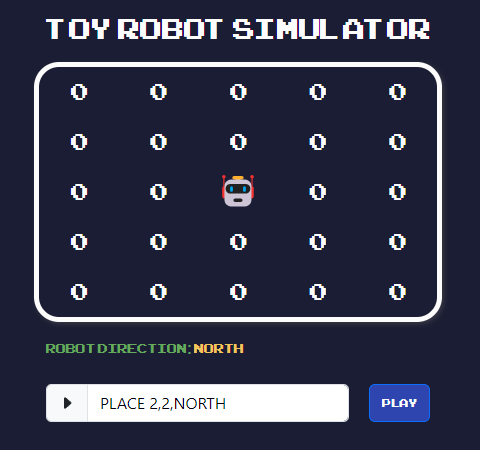
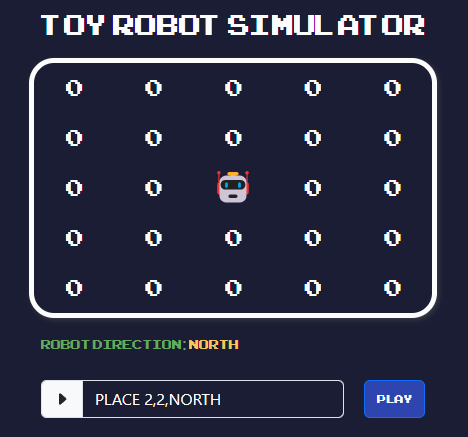
style update, new graphics added 2

diff --git a/src/app/game/game.component.scss b/src/app/game/game.component.scss
@@ -60,10 +60,15 @@
 }
 
 .form-control {
-    color: #00000d;
+    color: #fcfcfc;
+    background-color: #1b1d34;
+}
+.form-control::placeholder { 
+    color: #cdbbab51;
+    opacity: 6; 
 }
 .form-control:focus {
-    border-color: #f6c65e;
-    box-shadow: inset 0 1px 1px rgba(0, 0, 0, 0.075), 0 0 8px #f6c65e;
+    border-color: #66aa5d;
+    box-shadow: inset 0 1px 1px rgba(0, 0, 0, 0.075), 0 0 8px #66aa5d;
 }
 
